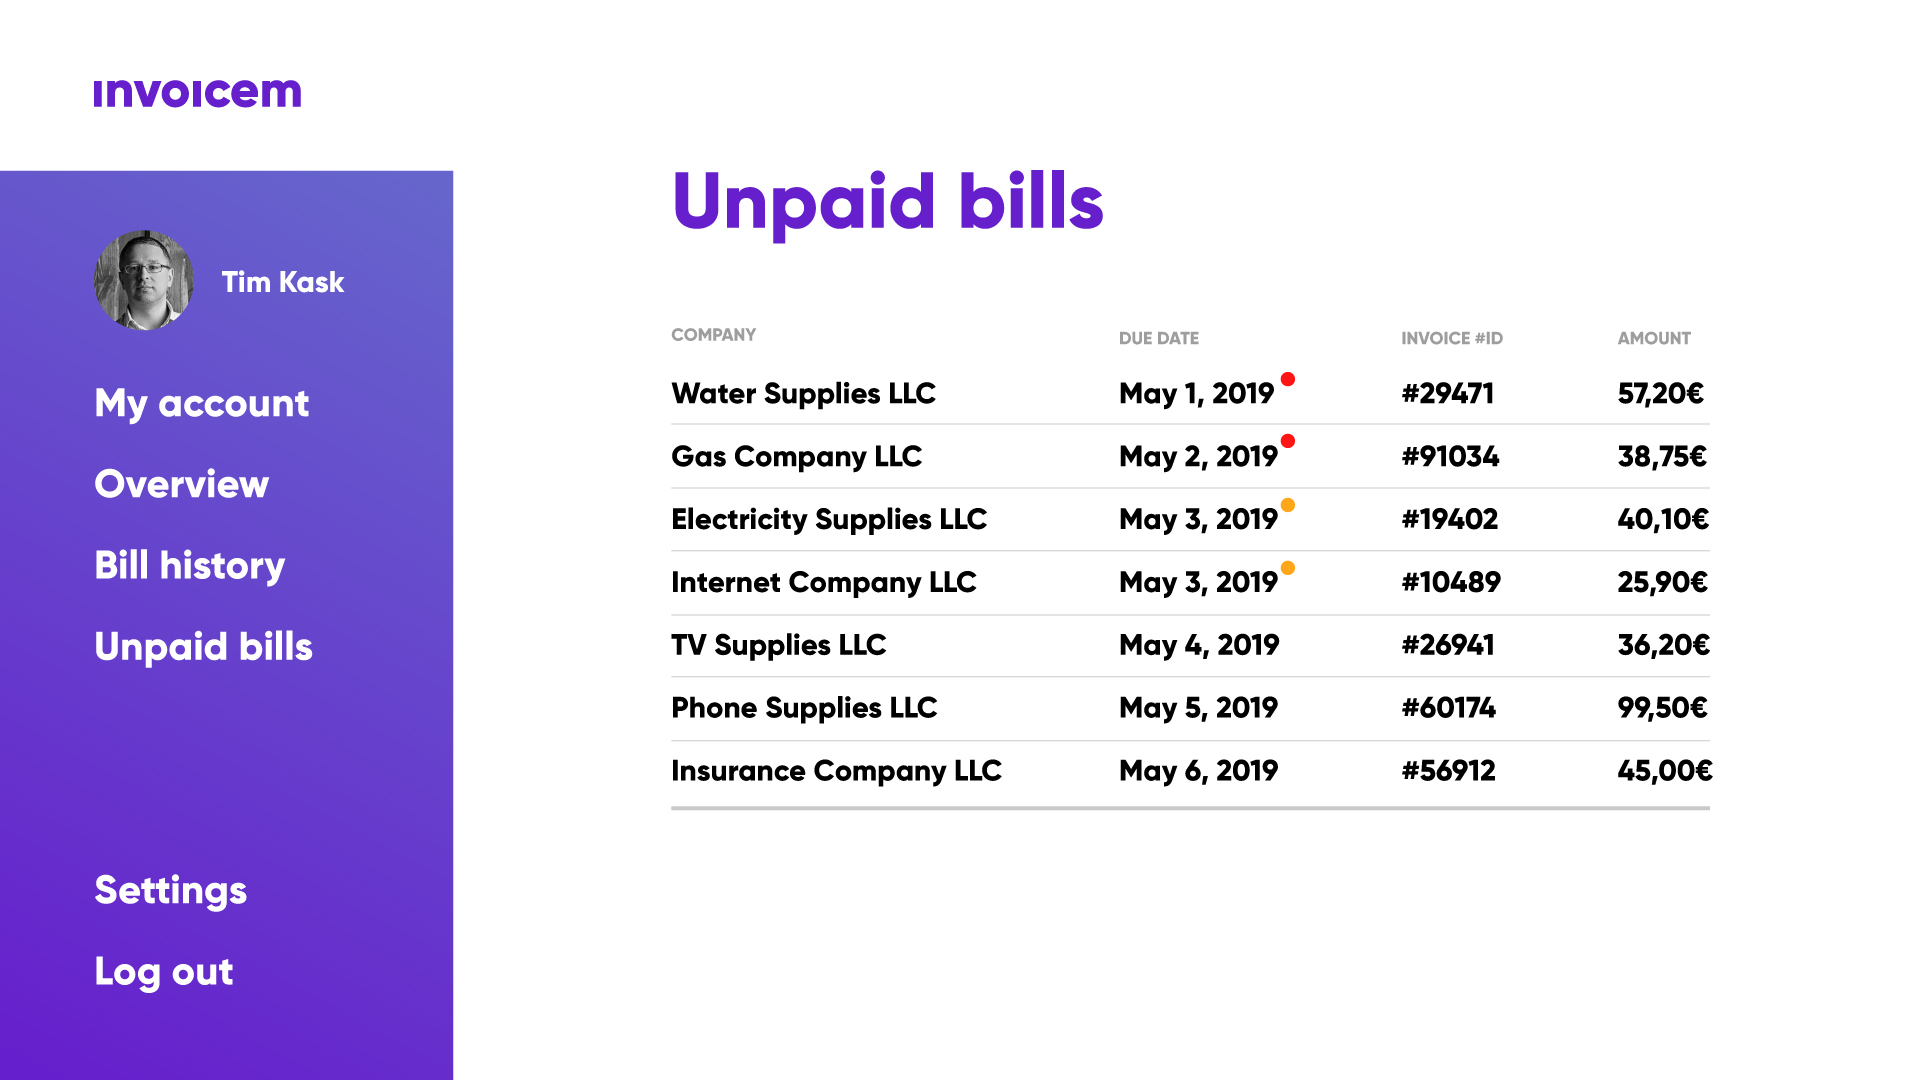
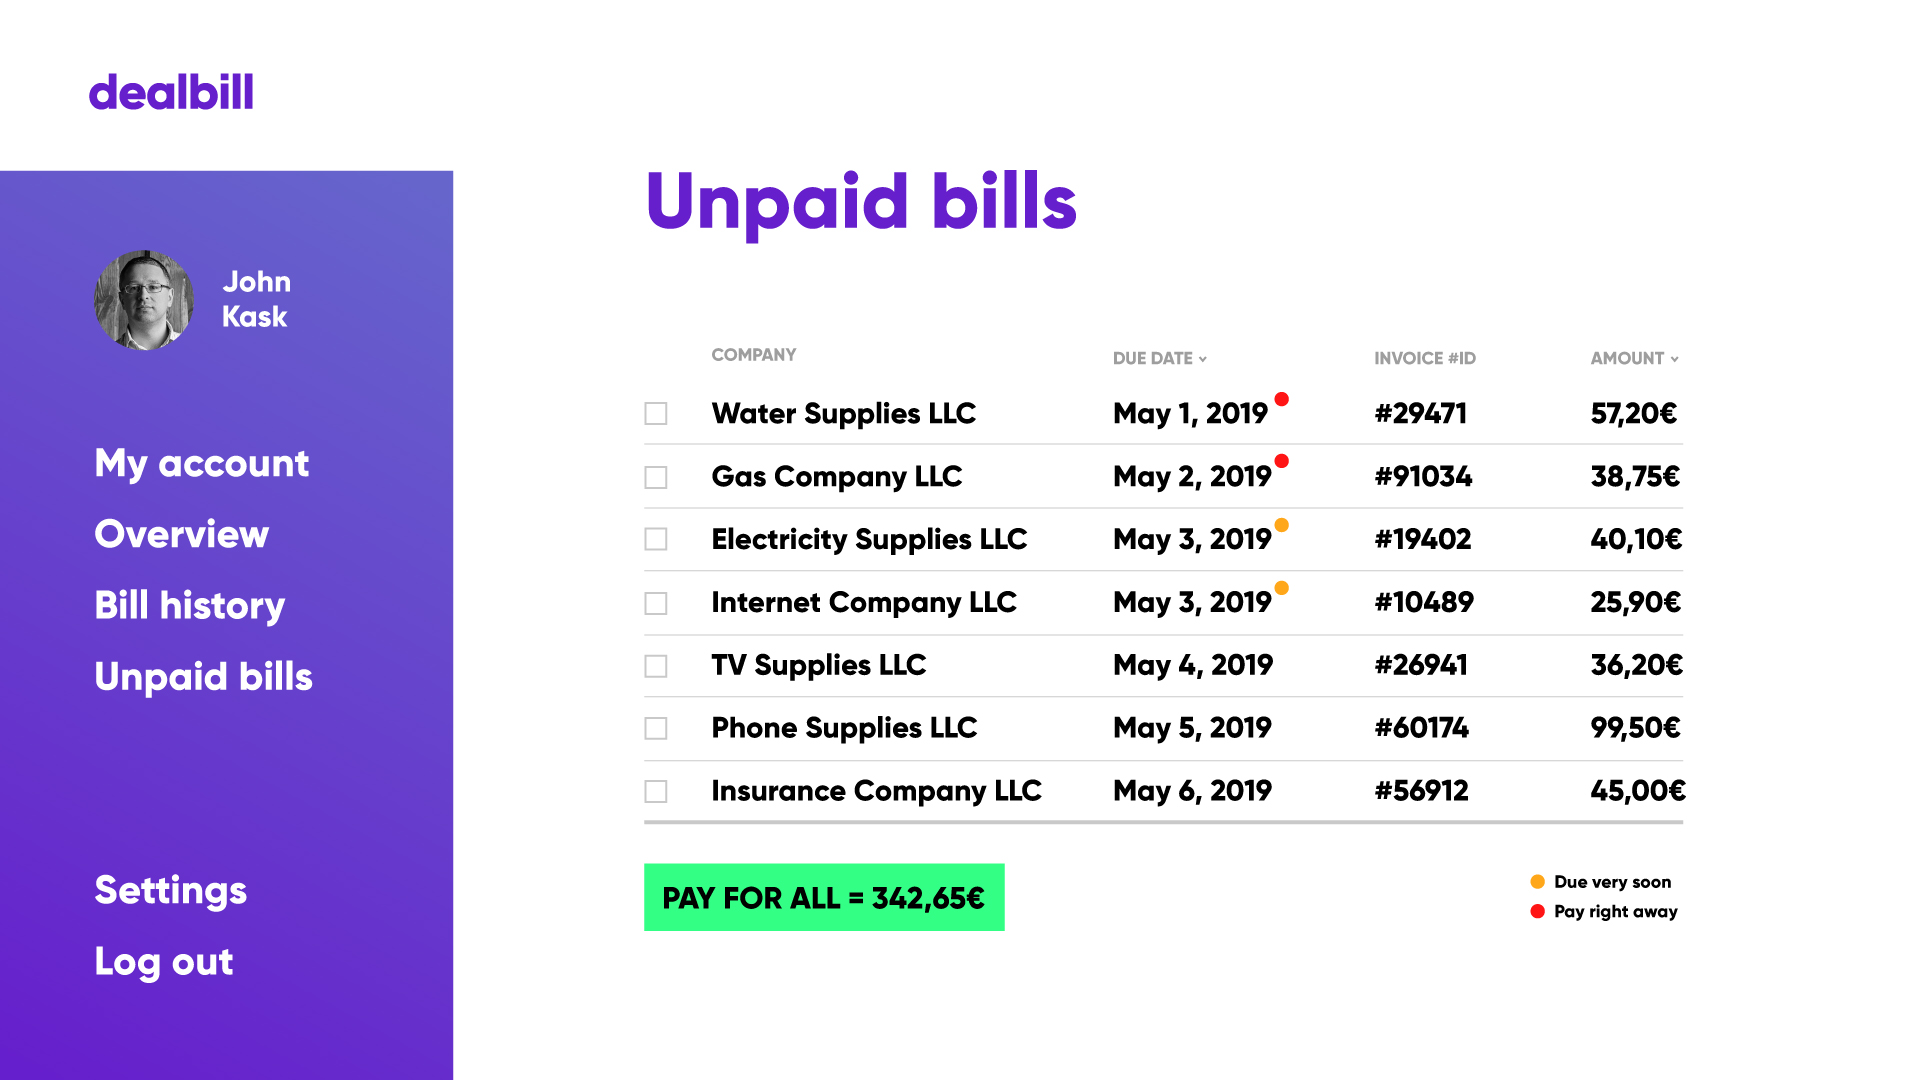
changes

diff --git a/stylesheet.css b/stylesheet.css
@@ -14,13 +14,12 @@
 	background-color: transparent;
 	border: none;	
 	text-align: center;
-	border-radius: 30px;
 	cursor: pointer;
-	height: 80px;
-	width: 400px;
+	height: 45px;
+	width: 165px;
 	position: absolute;
-	left: 150px;
-	bottom: -75px;
+	left: 120px;
+	bottom: 162px;
   }
 
 
@@ -37,13 +36,12 @@
 	background-color: transparent;
 	border: none;	
 	text-align: center;
-	border-radius: 30px;
 	cursor: pointer;
-	height: 80px;
-	width: 400px;
+	height: 45px;
+	width: 169px;
 	position: absolute;
-	left: 720px;
-	bottom: -75px;
+	left: 306px;
+	bottom: 162px;
 }
 
 .pay-bills {
@@ -56,21 +54,15 @@
 	font-family: "Gilroy-ExtraBold";
 	font-size: 14pt;
 	background-color: transparent;
-	border: 0.5px solid black;
-	border-radius: 8px;
 	text-align: center;
 	cursor: pointer;
-	height: 60px;
-	width: 250px;
+	height: 50px;
+	width: 255px;
 	position: absolute;
-	left: 520px;
-	bottom: 0px;
-	background-color: #6759CB;
+	left: 469px;
+	bottom: 11px;
 	color: white;
-}
-
-.pay-bills:hover {
-	background-color: blue;
+	border: none;
 }
 
 .clickable {

diff --git a/u-dashboard.html b/u-dashboard.html
@@ -11,7 +11,7 @@
       <a href="index.html" class="fill-div"></a>
      </div>
 		<form action="u-success.html">
-			<button class="pay-bills" type="submit">PAY FOR ALL = 342,65€</button>
+			<button class="pay-bills" type="submit"></button>
 		</form>
 	</div>
 </body>
